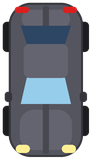
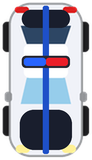
Se agregaron mas carriles y autos

diff --git a/src/motor/MotorJuego.java b/src/motor/MotorJuego.java
@@ -1,5 +1,5 @@
 package motor;
- 
+
 import gui.RecursoJuegoException;
 import java.awt.image.BufferedImage;
 import java.io.IOException;
@@ -8,27 +8,29 @@ import javax.imageio.ImageIO;
 import model.Auto;
 import model.AutoComputadora;
 import model.AutoJugador;
- 
+
 public class MotorJuego {
- 
+
     private Carretera carreteraIzquierda;
     private Carretera carreteraDerecha;
     private CarrilJugadorExtra carrilIzquierdo;
     private CarrilJugadorExtra carrilDerecho;
     private boolean dosJugadores;
- 
+
     private int altoPantalla;
     private int anchoCarril;
- 
+
     private BufferedImage imagenAuto;
     private BufferedImage imagenComputadora;
     private BufferedImage[] imagenesTrafico;
- 
+
     public MotorJuego(int anchoPantalla, int altoPantalla, boolean dosJugadores) throws RecursoJuegoException {
         this.altoPantalla = altoPantalla;
         this.dosJugadores = dosJugadores;
         this.anchoCarril = anchoPantalla / 2;
- 
+
+        int numCarrilesPorJugador = 5; // <-- aqui ajustan cuantos carriles internos quieren
+
         // Las imágenes se cargan UNA vez, antes de crear los autos
         this.imagenAuto = cargarImagen("/recursos/auto.png");
         this.imagenComputadora = cargarImagen("/recursos/auto_computadora.png");
@@ -36,21 +38,23 @@ public class MotorJuego {
             cargarImagen("/recursos/trafico1.png"),
             cargarImagen("/recursos/trafico2.png"),
             cargarImagen("/recursos/trafico3.png"),
-            cargarImagen("/recursos/trafico4.png")
+            cargarImagen("/recursos/trafico4.png"),
+            cargarImagen("/recursos/trafico5.png"),
+            cargarImagen("/recursos/trafico6.png"),
         };
- 
-        this.carreteraIzquierda = new Carretera(0, anchoCarril, altoPantalla, 6.0);
-        this.carreteraDerecha = new Carretera(anchoCarril, anchoCarril, altoPantalla, 6.0);
- 
+
+        this.carreteraIzquierda = new Carretera(0, anchoCarril, altoPantalla, 6.0, numCarrilesPorJugador);
+        this.carreteraDerecha = new Carretera(anchoCarril, anchoCarril, altoPantalla, 6.0, numCarrilesPorJugador);
+
         Auto auto1 = segundoJugador(carreteraIzquierda, false);
         Auto auto2 = segundoJugador(carreteraDerecha, !dosJugadores);
- 
+
         this.carrilIzquierdo = new CarrilJugadorExtra("Jugador 1", carreteraIzquierda, auto1, altoPantalla,
                 imagenesTrafico);
         this.carrilDerecho = new CarrilJugadorExtra(dosJugadores ? "Jugador 2" : "Computadora",
                 carreteraDerecha, auto2, altoPantalla, imagenesTrafico);
     }
- 
+
     private BufferedImage cargarImagen(String ruta) throws RecursoJuegoException {
         try (InputStream in = MotorJuego.class.getResourceAsStream(ruta)) {
             if (in == null) {
@@ -61,7 +65,7 @@ public class MotorJuego {
             throw new RecursoJuegoException("Error al leer la imagen: " + ruta, e);
         }
     }
- 
+
     private Auto segundoJugador(Carretera carretera, boolean esComputadora) {
         int anchoAuto = 46;
         int altoAuto = 80;
@@ -69,7 +73,7 @@ public class MotorJuego {
         int limiteDerecho = carretera.getCarreteraDerecha() - 10;
         double xInicial = (limiteIzquierdo + limiteDerecho) / 2.0 - anchoAuto / 2.0;
         double yInicial = altoPantalla - 150;
- 
+
         Auto auto;
         if (esComputadora) {
             auto = new AutoComputadora(xInicial, yInicial, anchoAuto, altoAuto, 6.5,
@@ -82,31 +86,30 @@ public class MotorJuego {
         }
         return auto;
     }
- 
+
     public void actualizar() {
         carrilIzquierdo.actualizar();
         carrilDerecho.actualizar();
     }
- 
+
     public void reiniciar() {
         carrilIzquierdo.reiniciar(segundoJugador(carreteraIzquierda, false));
         carrilDerecho.reiniciar(segundoJugador(carreteraDerecha, !dosJugadores));
     }
- 
+
     public boolean isJuegoTerminado() {
         return carrilIzquierdo.isChocado() && carrilDerecho.isChocado();
     }
- 
+
     public CarrilJugadorExtra getcarrilIzquierdo() {
         return carrilIzquierdo;
     }
- 
+
     public CarrilJugadorExtra getcarrilDerecho() {
         return carrilDerecho;
     }
- 
+
     public boolean isDosJugadores() {
         return dosJugadores;
     }
 }
- 

diff --git a/src/motor/Carretera.java b/src/motor/Carretera.java
@@ -12,14 +12,18 @@ public class Carretera {
     private int carreteraDerecha;
     private double offsetLineas = 0;
     private double velocidadScroll;
+    private int numCarriles;
+    private double anchoPorCarril;
 
-    public Carretera(int offsetX, int anchoCarril, int alto, double velocidadScroll) {
+    public Carretera(int offsetX, int anchoCarril, int alto, double velocidadScroll, int numCarriles) {
         this.offsetX = offsetX;
         this.anchoCarril = anchoCarril;
         this.alto = alto;
         this.velocidadScroll = velocidadScroll;
         this.carreteraIzquierda = offsetX + anchoCarril / 6;
         this.carreteraDerecha = offsetX + anchoCarril - anchoCarril / 6;
+        this.numCarriles = Math.max(1, numCarriles);
+        this.anchoPorCarril = (carreteraDerecha - carreteraIzquierda) / (double) this.numCarriles;
     }
 
     public void actualizar() {
@@ -40,14 +44,29 @@ public class Carretera {
         g.setColor(new Color(50, 50, 50));
         g.fillRect(carreteraIzquierda, 0, carreteraDerecha - carreteraIzquierda, alto);
 
-        // Linea central discontinua
+        // Lineas discontinuas entre cada carril interno
         g.setColor(Color.YELLOW);
-        int centroX = (carreteraIzquierda + carreteraDerecha) / 2 - 4;
         int altoLinea = 40;
         int espacio = 30;
-        for (int y = (int) offsetLineas - altoLinea; y < alto; y += altoLinea + espacio) {
-            g.fillRect(centroX, y, 8, altoLinea);
+        for (int i = 1; i < numCarriles; i++) {
+            int xLinea = (int) (carreteraIzquierda + anchoPorCarril * i) - 4;
+            for (int y = (int) offsetLineas - altoLinea; y < alto; y += altoLinea + espacio) {
+                g.fillRect(xLinea, y, 8, altoLinea);
+            }
         }
+    }
+
+    /**
+     * Devuelve la posicion X del CENTRO del carril interno indicado (0 = el mas
+     * a la izquierda). Util para alinear el trafico (o el auto) a un carril.
+     */
+    public double getCentroCarril(int indiceCarril) {
+        int i = Math.max(0, Math.min(indiceCarril, numCarriles - 1));
+        return carreteraIzquierda + anchoPorCarril * i + anchoPorCarril / 2.0;
+    }
+
+    public int getNumCarriles() {
+        return numCarriles;
     }
 
     public int getCarreteraIzquierda() {

diff --git a/src/motor/CarrilJugadorExtra.java b/src/motor/CarrilJugadorExtra.java
@@ -23,7 +23,7 @@ public class CarrilJugadorExtra {
     private int altoPantalla;
     private Random random = new Random();
     private int contadorSpawn = 0;
-    private int frecuenciaSpawn = 60;
+    private int frecuenciaSpawn = 30;
     private BufferedImage[] imagenesTrafico;
     private static final Color[] COLORES_TRAFICO = {
         Color.red, Color.orange, new Color(150, 0, 150), Color.DARK_GRAY
@@ -68,15 +68,14 @@ public class CarrilJugadorExtra {
             contadorSpawn = 0;
             int anchoAuto = 50;
             int altoAuto = 90;
-            int maxX = carrilDerecho - anchoAuto;
-            if (maxX <= carrilIzquierdo) {
-                return;
-            }
-            double x = carrilIzquierdo + random.nextDouble() * (maxX - carrilIzquierdo);
-            double velocidad = 4.0 + random.nextDouble() * 3.0;
+
+            int indiceCarril = random.nextInt(carretera.getNumCarriles());
+            double centroCarril = carretera.getCentroCarril(indiceCarril);
+            double x = centroCarril - anchoAuto / 2.0;
+
+            double velocidad = 5.0 + random.nextDouble() * 3.0;
             Color color = COLORES_TRAFICO[random.nextInt(COLORES_TRAFICO.length)];
             AutoTrafico nuevo = new AutoTrafico(x, -altoAuto, anchoAuto, altoAuto, velocidad, color);
-            // Imagen al azar para que el tráfico no se vea todo igual
             nuevo.setImagen(imagenesTrafico[random.nextInt(imagenesTrafico.length)]);
             trafico.add(nuevo);
         }
@@ -131,4 +130,3 @@ public class CarrilJugadorExtra {
         return carrilDerecho;
     }
 }
- 

diff --git a/src/gui/VentanaJuego.java b/src/gui/VentanaJuego.java
@@ -12,8 +12,8 @@ public class VentanaJuego extends JFrame {
 
         boolean dosJugadores = preguntarModoDeJuego();
 
-        int anchoTotal = 700; // dos carriles de 350px cada uno
-        int alto = 650;
+        int anchoTotal = 1200; // dos carriles de 350px cada uno
+        int alto = 750;
         PanelJuego panelJuego = new PanelJuego(anchoTotal, alto, dosJugadores);
         add(panelJuego);
 

diff --git a/src/model/Auto.java b/src/model/Auto.java
@@ -14,7 +14,7 @@ public abstract class Auto {
     protected int alto;
     protected double velocidad;
     protected Color color;
-    protected BufferedImage imagen;  
+    protected BufferedImage imagen;
 
     public Auto(double x, double y, int ancho, int alto, double velocidad, Color color) {
         this.x = x;
